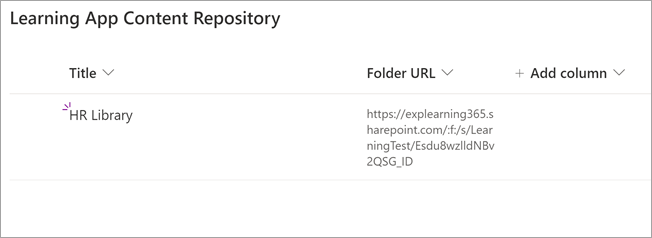
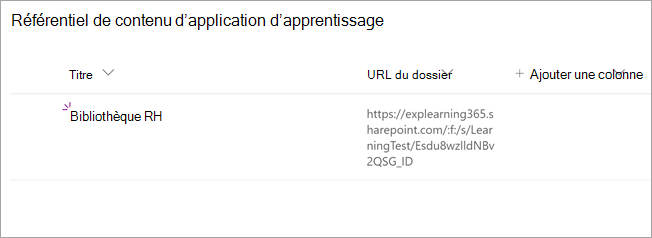
commit translated contents

diff --git a/Teams/private-channels.md b/Teams/private-channels.md
@@ -18,12 +18,12 @@ appliesto:
 localization_priority: Priority
 search.appverid: MET150
 description: Découvrez comment utiliser et gérer les canaux privés dans Microsoft Teams.
-ms.openlocfilehash: e95277fab2c0813d94cf93aa4c1b207e3b06b46a
-ms.sourcegitcommit: 616403037ddb2d44f06cd9b2eaa9da699b119ef8
+ms.openlocfilehash: 77ebc7abc73163bfdc9804d22efa12ade510d925
+ms.sourcegitcommit: 234c928b9ac127716e3d5a92ee2bcdda1a415a38
 ms.translationtype: HT
 ms.contentlocale: fr-FR
-ms.lasthandoff: 04/15/2021
-ms.locfileid: "51768393"
+ms.lasthandoff: 04/23/2021
+ms.locfileid: "51959481"
 ---
 # <a name="private-channels-in-microsoft-teams"></a>Canaux privés dans Microsoft Teams
 
@@ -74,14 +74,14 @@ Le tableau suivant décrit les actions que les propriétaires, les membres et le
 
 |Action  |Propriétaire d’une équipe|Membre de l’équipe|Invité de l’équipe|Propriétaire du canal privé|Membre du canal privé|Invité du canal privé|
 |---------|---------|---------|---------|---------|---------|---------|
-|Créer un canal privé|Contrôlée par l’administrateur|Contrôlée par l’administrateur et le propriétaire de l’équipe|Non|N/A|N/A|S/O|
+|Créer un canal privé|Contrôlée par l’administrateur|Contrôlée par l’administrateur et le propriétaire de l’équipe|Non|S/O|S/O|S/O|
 |Supprimer un canal privé|Oui|Non|Non|Oui|Non|Non|
-|Quitter un canal privé|S/O|N/A|S/O|Oui, à moins qu’il ne soit le dernier propriétaire|Oui|Oui|
-|Modifier un canal privé|Non|N/A|N/A|Oui|Non|Non|
+|Quitter un canal privé|S/O|S/O|S/O|Oui, à moins qu’il ne soit le dernier propriétaire|Oui|Oui|
+|Modifier un canal privé|Non|S/O|N/A|Oui|Non|Non|
 |Restaurer un canal privé supprimé|Oui|Non|Non|Oui|Non|Non|
-|Ajouter des membres|Non|N/A|N/A|Oui|Non|Non|
-|Modifier les paramètres|Non|N/A|N/A|Oui|Non|Non|
-|Gérer les onglets et les applications|Non|N/A|S/O|Oui, les applications doivent être installées pour l’équipe|Contrôlé par le propriétaire du canal|Non|
+|Ajouter des membres|Non|S/O|N/A|Oui|Non|Non|
+|Modifier les paramètres|Non|S/O|N/A|Oui|Non|Non|
+|Gérer les onglets et les applications|Non|S/O|S/O|Oui, les applications doivent être installées pour l’équipe|Contrôlé par le propriétaire du canal|Non|
 
 ## <a name="manage-the-lifecycle-of-private-channels"></a>Gérer le cycle de vie des canaux privés
 
@@ -89,7 +89,7 @@ Vous pouvez consultez l’article [Gérer le cycle de vie des canaux privés dan
 
 ## <a name="private-channel-sharepoint-sites"></a>Canal privé des sites SharePoint
 
-Chaque canal privé possède ses propres sites SharePoint. Le site séparé vise à garantir que l’accès aux fichiers de canaux privés est limité aux seuls membres du canal privé. Ces sites sont créées avec une bibliothèque de documents par défaut, et peuvent être facilement améliorés et transformés en site complet via l’[interface de gestion de site](https://support.office.com/article/A2F2A5C2-093D-4897-8B7F-37F86D83DF04). Chaque site est créé dans la même zone géographique que le site de l’équipe parente. Ces sites légers ont un ID de modèle personnalisé, « TEAMCHANNEL#0 », pour simplifier la gestion via PowerShell et l’API Graph.
+Chaque canal privé possède ses propres sites SharePoint. Le site séparé vise à garantir que l’accès aux fichiers de canaux privés est limité aux seuls membres du canal privé. Ces sites sont créées avec une bibliothèque de documents par défaut, et peuvent être facilement améliorés et transformés en site complet via l’[interface de gestion de site](https://support.office.com/article/A2F2A5C2-093D-4897-8B7F-37F86D83DF04). Chaque site est créé dans la même zone géographique que le site de l’équipe parente. Ces sites légers ont un ID de modèle personnalisé, « TEAMCHANNEL#0 », pour simplifier la gestion via PowerShell et l’API Graph. Remarque : les sites SharePoint des canaux privés ne sont pas inclus dans la page Sites actifs du nouveau Centre d'administration SharePoint.
 
 Un site de canaux privés synchronise la classification des données et hérite des autorisations d’accès invité du site de l’équipe parente. L’adhésion au propriétaire du site et aux groupes de membres, est synchronisée avec l’adhésion au canal privé au sein de Teams. Toutes les modifications apportées à l’appartenance aux groupes Propriétaire ou Membre dans SharePoint seront automatiquement converties en appartenance à un canal privé dans les quatre heures. Si certains utilisateurs ont besoin d’accéder à des documents sans avoir besoin d’accéder aux messages de canal privé, ajoutez-les au groupe visiteurs sur le site ou à un nouveau groupe séparé des propriétaires et des membres.
 
